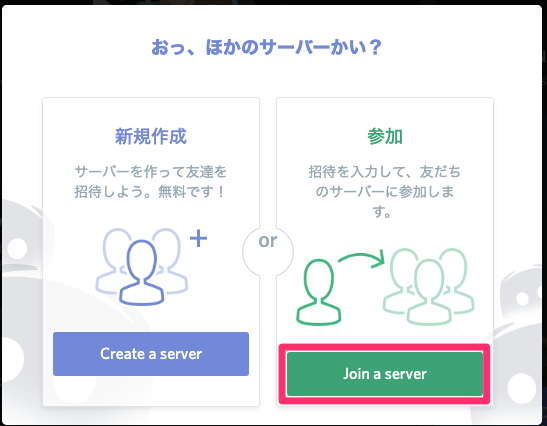
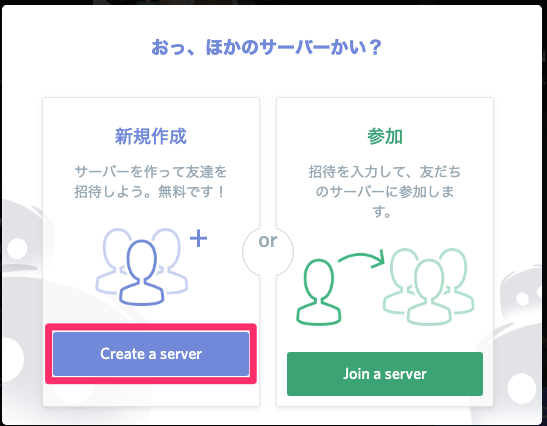
[WIP] bot tutorial omikuji

Changed region(s): [[0.0622, 0.7324, 0.9013, 0.9765]]

diff --git a/presentation/bot-tutorial-20190522/index.md b/presentation/bot-tutorial-20190522/index.md
@@ -55,12 +55,11 @@
 
 # 前準備
 
-mirai-techサーバに参加しよう  
+自分のサーバを作成しよう
 
 - Discordアカウントを作成
-- 招待URLからサーバを追加
+- サーバを追加
 
-自分のサーバがある場合そちらを利用して良いです
 
 ---
 
@@ -78,7 +77,7 @@ mirai-techサーバに参加しよう
 
 # 前準備#3
 
-招待URL: [https://discord.gg/aFdEBby](https://discord.gg/aFdEBby)
+任意のサーバ名を入力
 
 ![pre03](../../image/20190522/pre03.png)
 
@@ -89,7 +88,7 @@ mirai-techサーバに参加しよう
 - Python 3.5.3以降
 
 Python実行環境がない方は以下のURLにアクセス  
-[https://coder.otona.pro](https://coder.otona.pro)
+[https://coder.otona.pro](https://coder.otona.pro)<!--- .element target="_blank" -->
 
 
 ---
@@ -105,6 +104,8 @@ $ python3 -m pip install -U discord.py
 # Windows
 $ py -3 -m pip install -U discord.py
 ```
+
+[https://discordpy.readthedocs.io/ja/latest/](https://discordpy.readthedocs.io/ja/latest/)<!--- .element target="_blank" -->
 
 ---
 
@@ -140,7 +141,7 @@ client = discord.Client()
 
 @client.event
 async def on_ready():
-    print("Logged In")
+    print("ready call!")
 
 @client.event
 async def on_message(message):
@@ -158,7 +159,7 @@ client.run(TOKEN)
 
 以下のURLにアクセス
 
-[https://discordapp.com/developers/applications/](https://discordapp.com/developers/applications/)
+[https://discordapp.com/developers/applications/](https://discordapp.com/developers/applications/)<!--- .element target="_blank" -->
 
 ---
 
@@ -212,7 +213,7 @@ client.run(TOKEN)
 ```console
 $ cd [YOUR_ID]
 $ python3 bot.py 
-Logged In
+ready call!
 
 # アクション待ち
 # Ctrl+cで終了
@@ -223,6 +224,264 @@ Logged In
 # テスト
 
 ![test01](../../image/20190522/test01.png)
+
+---
+
+# BOTができた！
+
+---
+
+# 構文解説
+
+`@client.event`とか`async/await`って何？
+
+---
+
+# デコレータ#1
+
+`@client.event`のように@から始まる装飾を`デコレータ`と呼ぶ
+Pythonでは以下の種類をサポート
+
+- 関数
+- メソッド
+- クラス
+
+---
+
+# デコレータ#2
+
+デコレータはシンタックスシュガー  
+以下の2つのコードはほぼ同じ意味
+
+```
+@f1(arg)
+@f2
+def func(): pass
+```
+
+```
+def func(): pass # 違いはここでfuncが一度定義される
+func = f1(arg)(f2(func))
+```
+
+参考: [Python 言語リファレンス](https://docs.python.org/ja/3/reference/compound_stmts.html#function)<!--- .element target="_blank" -->
+
+---
+
+# デコレータ#3
+
+実行サンプル
+
+```python
+# deco.py
+def deco(func):
+    def wrapper(*args, **kwargs):
+        print('---start---')
+        func(*args, **kwargs)
+        print("---end---")
+    return wrapper
+
+@deco
+def main():
+    print('Hello Decorator')
+
+if __name__ == "__main__":
+    main()
+```
+
+参考: [Pythonのデコレータについて - Qiita](https://qiita.com/mtb_beta/items/d257519b018b8cd0cc2e)
+
+---
+
+# デコレータ#4
+
+```console
+$ python3 deco.py
+---start---
+Hello Decorator
+---end---
+```
+
+---
+
+# デコレータ#5
+
+discord.pyのソースを確認  
+@client.eventで渡した関数をdiscord.pyでプロパティに追加  
+
+```python
+class Client:
+    # 省略
+    # コメント省略
+    def event(self, coro):
+        if not asyncio.iscoroutinefunction(coro):
+            raise TypeError('event registered must be a coroutine function')
+        # setattrでプロパティに追加される
+        setattr(self, coro.__name__, coro)
+        log.debug('%s has successfully been registered as an event', coro.__name__)
+        return coro
+```
+
+
+参考: [https://github.com/Rapptz/discord.py/blob/master/discord/client.py](https://github.com/Rapptz/discord.py/blob/master/discord/client.py)
+
+
+---
+
+# async/await #1
+
+コルーチンを扱うための構文  
+ここではソースを読むための表層的な部分のみ紹介する  
+
+---
+
+# async/await #2
+
+asyncと一緒に宣言をした関数はコルーチンになる  
+通常の関数呼び出しではエラー
+
+```python
+import asyncio
+
+async def hello_world():
+    print("Hello World!")
+
+# イベントループを取得
+loop = asyncio.get_event_loop()
+# イベントループに呼び出しを任せる
+loop.run_until_complete(hello_world())
+loop.close()
+```
+
+---
+
+# async/await #3
+
+awaitを利用することでasync関数を呼び出せる
+
+```python
+import asyncio
+
+async def hello_world():
+    print("Hello World!")
+
+async def call_hello_world():
+    await hello_world()
+
+loop = asyncio.get_event_loop()
+loop.run_until_complete(call_hello_world())
+```
+
+---
+
+# async/await #4
+
+もう一度discord.pyのソースを確認  
+コルーチンを受け取ることを期待していることがわかる
+
+```python
+class Client:
+    # 省略
+    # コメント省略
+    def event(self, coro):
+        if not asyncio.iscoroutinefunction(coro):
+            raise TypeError('event registered must be a coroutine function')
+        # setattrでプロパティに追加される
+        setattr(self, coro.__name__, coro)
+        log.debug('%s has successfully been registered as an event', coro.__name__)
+        return coro
+```
+
+参考: [https://github.com/Rapptz/discord.py/blob/master/discord/client.py](https://github.com/Rapptz/discord.py/blob/master/discord/client.py)
+
+---
+
+# 休憩（質疑応答）
+
+---
+
+# おみくじを作ろう#1
+
+簡単なおみくじ機能を実装
+
+- Random機能を使って運勢を表示
+- DiscordのEmbed表示を使用
+- リアクションを使って引き直し可能
+
+---
+
+# おみくじを作ろう#2
+
+最初にシンプルなおみくじを実装してテスト
+
+```python
+import random # 読み込み追加
+
+# 省略(on_message内)
+    if message.content == '/omikuji':
+        value = await omikuji(random.randint(0, 100))
+        await message.channel.send(value)
+
+async def omikuji(num = 0):
+    if num < 10:
+        return "大吉"
+    elif 10 <= num < 30:
+        return "中吉"
+    elif 30 <= num < 60:
+        return "小吉"
+    elif 60 <= num < 80:
+        return "吉"
+    elif 80 <= num < 95:
+        return "末吉"
+    else:
+        return "凶"
+```
+
+---
+
+# おみくじを作ろう#3
+
+埋め込み形式にしよう
+
+```python
+# 省略(on_message内)
+    if message.content == '/omikuji':
+        value = await omikuji(random.randint(0, 100))
+        await send_omikuji(message.channel, message.author, value)
+
+async def send_omikuji(channel, user, value):
+    embed = discord.Embed(title="おみくじ",
+                        description=f"{user.mention}さんの今日の運勢は！",
+                        color=discord.Colour.from_rgb(255,0,0))
+    embed.set_thumbnail(url=user.avatar_url)
+    embed.add_field(name="運勢: ", value=value, inline=False)
+    await channel.send(embed=embed)
+```
+
+---
+
+# おみくじを作ろう#4
+
+リアクションを実装しよう
+
+```python
+# リアクションがあった場合に呼び出し
+@client.event
+async def on_reaction_add(reaction, user):
+    if (reaction.emoji == '⭕'):
+        value = await omikuji(random.randint(0, 100))
+        await send_omikuji(reaction.message.channel, user, value)
+
+async def send_omikuji(channel, user, value):
+    # 省略
+    embed.add_field(name="運勢: ", value=value, inline=False)
+    embed.add_field(name="もう一度?", value="⭕(:o:)をつけるともう一度くじを引きます", inline=False)
+    await channel.send(embed=embed)
+```
+
+---
+
+# 休憩（質疑応答）
 
 ---
 
